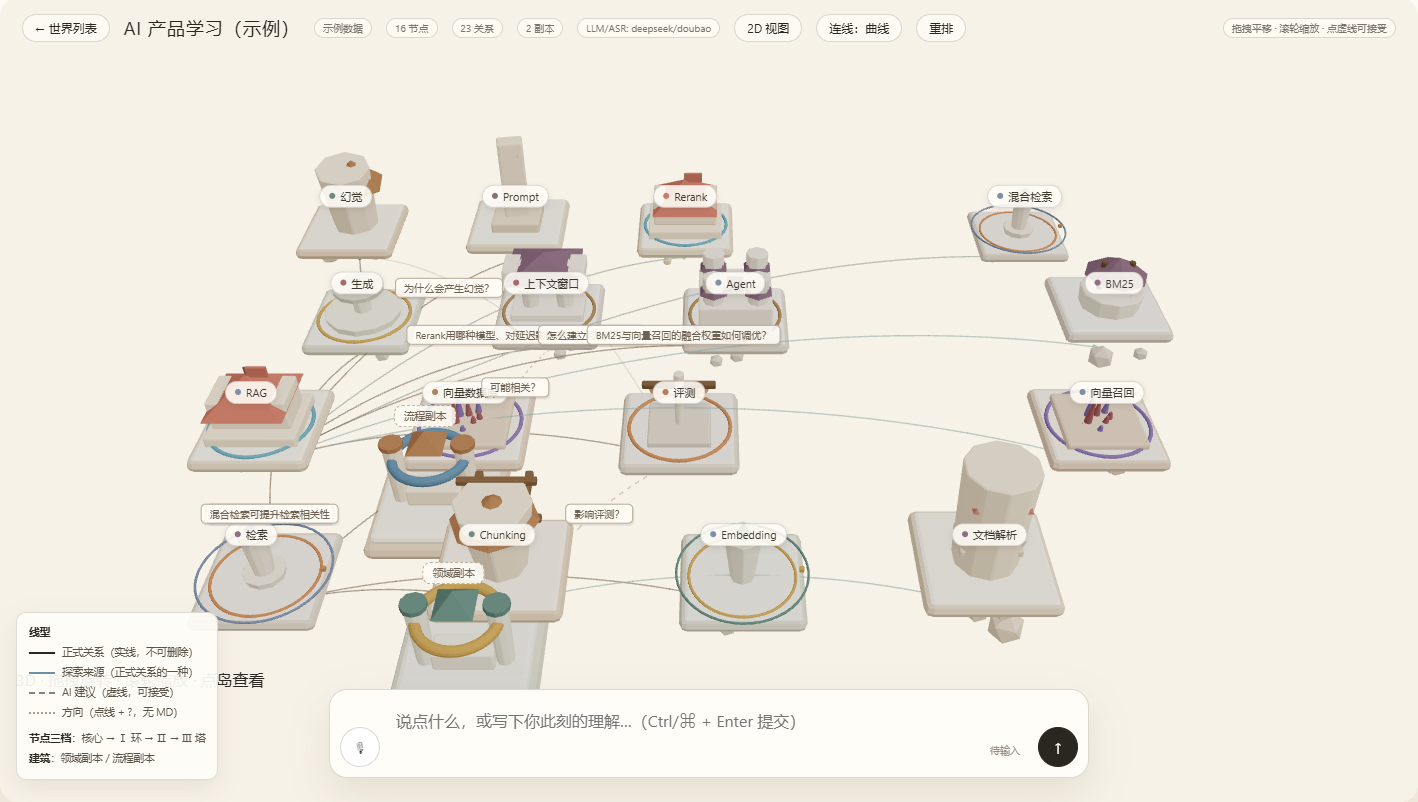
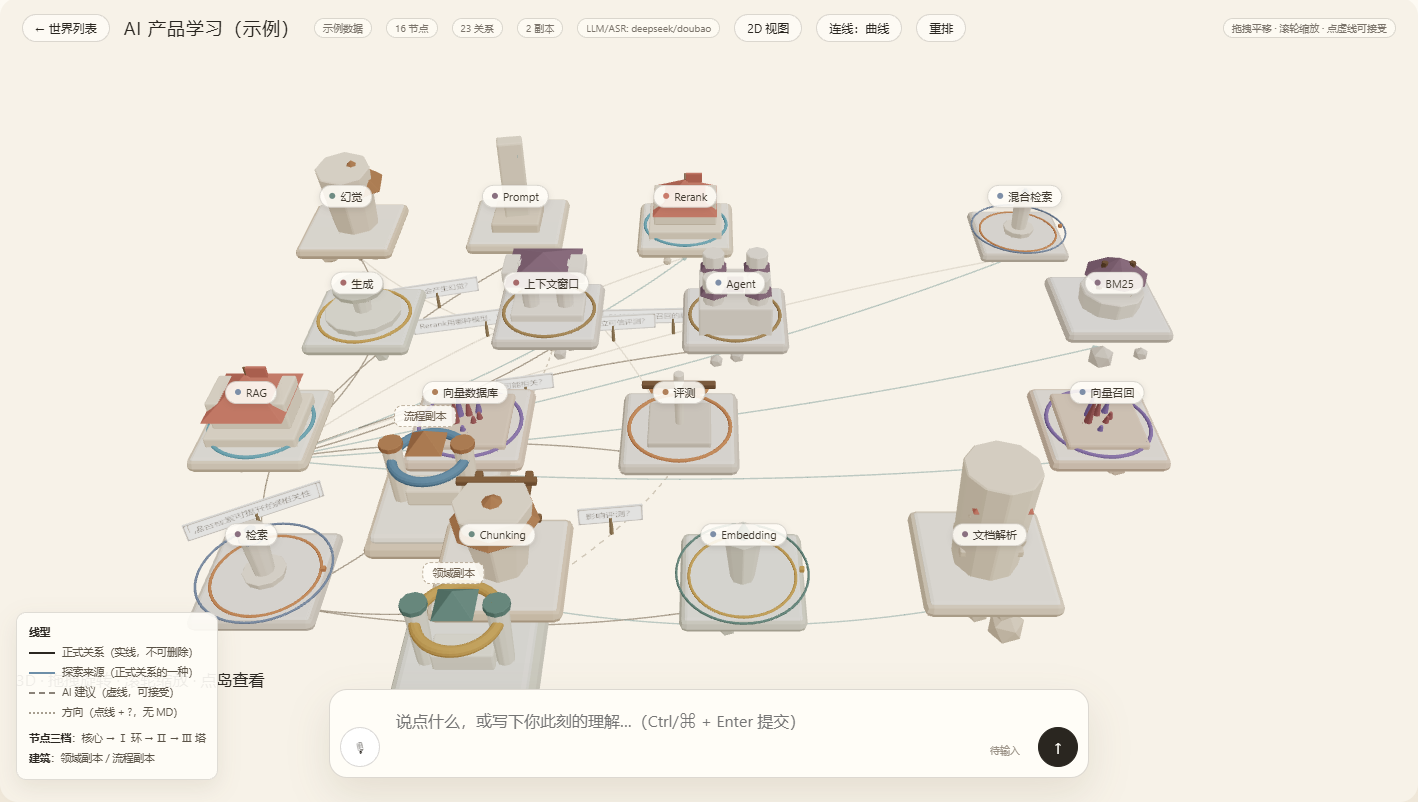
feat(3d): 曲线完全贴地（所有点高度 0）+ 立体路牌
- 边曲线起终点/中点全部 y=0，仅在 XZ 平面弯曲，彻底贴地
- 路牌改为 3D 实体：木柱 + 双面牌面（Canvas 文字贴图），绕 Y 轴始终朝向相机
- 牌面可点击打开关系/方向抽屉；牌面加宽放大
- 箭头仍贴地，深度遮挡由三维缓冲处理

diff --git a/web/src/components/World3D.tsx b/web/src/components/World3D.tsx
@@ -131,6 +131,101 @@ function Building({
   );
 }
 
+function makeBoardTexture(text: string) {
+  const font = "500 30px 'Microsoft YaHei','Segoe UI',system-ui,sans-serif";
+  const pad = 22;
+  const probe = document.createElement("canvas").getContext("2d")!;
+  probe.font = font;
+  const rawW = Math.ceil(probe.measureText(text).width);
+  const W = Math.min(520, Math.max(150, rawW + pad * 2));
+  const H = 64;
+  const canvas = document.createElement("canvas");
+  canvas.width = W * 2;
+  canvas.height = H * 2;
+  const ctx = canvas.getContext("2d")!;
+  ctx.scale(2, 2);
+  ctx.font = font;
+  ctx.fillStyle = "#fffdf7";
+  ctx.strokeStyle = "#8a7a63";
+  ctx.lineWidth = 2;
+  const r = 8;
+  ctx.beginPath();
+  ctx.moveTo(r, 1);
+  ctx.lineTo(W - r, 1);
+  ctx.quadraticCurveTo(W - 1, 1, W - 1, r);
+  ctx.lineTo(W - 1, H - r);
+  ctx.quadraticCurveTo(W - 1, H - 1, W - r, H - 1);
+  ctx.lineTo(r, H - 1);
+  ctx.quadraticCurveTo(1, H - 1, 1, H - r);
+  ctx.lineTo(1, r);
+  ctx.quadraticCurveTo(1, 1, r, 1);
+  ctx.closePath();
+  ctx.fill();
+  ctx.stroke();
+  ctx.fillStyle = "#4a4034";
+  ctx.textBaseline = "middle";
+  let shown = text;
+  while (probe.measureText(shown).width > W - pad * 2 && shown.length > 2) {
+    shown = shown.slice(0, -1);
+  }
+  if (shown !== text) shown = shown.slice(0, -1) + "…";
+  ctx.fillText(shown, pad, H / 2 + 1);
+  const tex = new THREE.CanvasTexture(canvas);
+  tex.colorSpace = THREE.SRGBColorSpace;
+  tex.anisotropy = 4;
+  return { tex, width: W * 0.32, height: H * 0.32 };
+}
+
+/** 立体路牌：木柱 + 牌面（Canvas 文字），始终转向相机，可点击 */
+function SignPost({
+  position,
+  label,
+  onOpen,
+}: {
+  position: [number, number, number];
+  label: string;
+  onOpen: () => void;
+}) {
+  const ref = useRef<THREE.Group>(null);
+  const { tex, width, height } = useMemo(() => makeBoardTexture(label || "方向"), [label]);
+  useFrame(({ camera }) => {
+    if (!ref.current) return;
+    ref.current.rotation.y = Math.atan2(
+      camera.position.x - position[0],
+      camera.position.z - position[2],
+    );
+  });
+  return (
+    <group
+      ref={ref}
+      position={position}
+      onPointerDown={(e) => {
+        e.stopPropagation();
+        onOpen();
+      }}
+      onPointerOver={() => (document.body.style.cursor = "pointer")}
+      onPointerOut={() => (document.body.style.cursor = "auto")}
+    >
+      <mesh position={[0, 11, 0]} castShadow>
+        <cylinderGeometry args={[1.6, 2.0, 22, 8]} />
+        <meshStandardMaterial color="#a08a6a" flatShading />
+      </mesh>
+      <mesh position={[0, 26, 0]} castShadow>
+        <boxGeometry args={[width, height, 1.6]} />
+        <meshStandardMaterial color="#fffdf7" />
+      </mesh>
+      <mesh position={[0, 26, 0.95]}>
+        <planeGeometry args={[width - 1.4, height - 1.4]} />
+        <meshBasicMaterial map={tex} transparent />
+      </mesh>
+      <mesh position={[0, 26, -0.95]} rotation={[0, Math.PI, 0]}>
+        <planeGeometry args={[width - 1.4, height - 1.4]} />
+        <meshBasicMaterial map={tex} transparent />
+      </mesh>
+    </group>
+  );
+}
+
 function Edge({
   a,
   b,
@@ -145,9 +240,17 @@ function Edge({
   onSign: () => void;
 }) {
   const curve = useMemo(() => {
-    const mid = a.clone().add(b).multiplyScalar(0.5);
-    mid.y += Math.min(140, a.distanceTo(b) * 0.18);
-    return new THREE.QuadraticBezierCurve3(a, mid, b);
+    // 完全贴地：所有点高度 y=0，只在 XZ 平面里弯
+    const s = a.clone().setY(0);
+    const t = b.clone().setY(0);
+    const mid = s.clone().add(t).multiplyScalar(0.5);
+    const dx = t.x - s.x;
+    const dz = t.z - s.z;
+    const len = Math.hypot(dx, dz) || 1;
+    const bow = Math.min(60, len * 0.12);
+    mid.x += (-dz / len) * bow;
+    mid.z += (dx / len) * bow;
+    return new THREE.QuadraticBezierCurve3(s, mid, t);
   }, [a, b]);
   const pts = useMemo(
     () => curve.getPoints(26).map((p) => [p.x, p.y, p.z] as [number, number, number]),
@@ -178,11 +281,7 @@ function Edge({
         <meshBasicMaterial color={color} transparent opacity={0.65} />
       </mesh>
       {(kind === "direction" || kind === "suggest") && label ? (
-        <Html center position={[mid.x, 20, mid.z]}>
-          <button className="rail-board sign3d" onClick={onSign}>
-            {label}
-          </button>
-        </Html>
+        <SignPost position={[mid.x, 0, mid.z]} label={label} onOpen={onSign} />
       ) : null}
     </group>
   );
